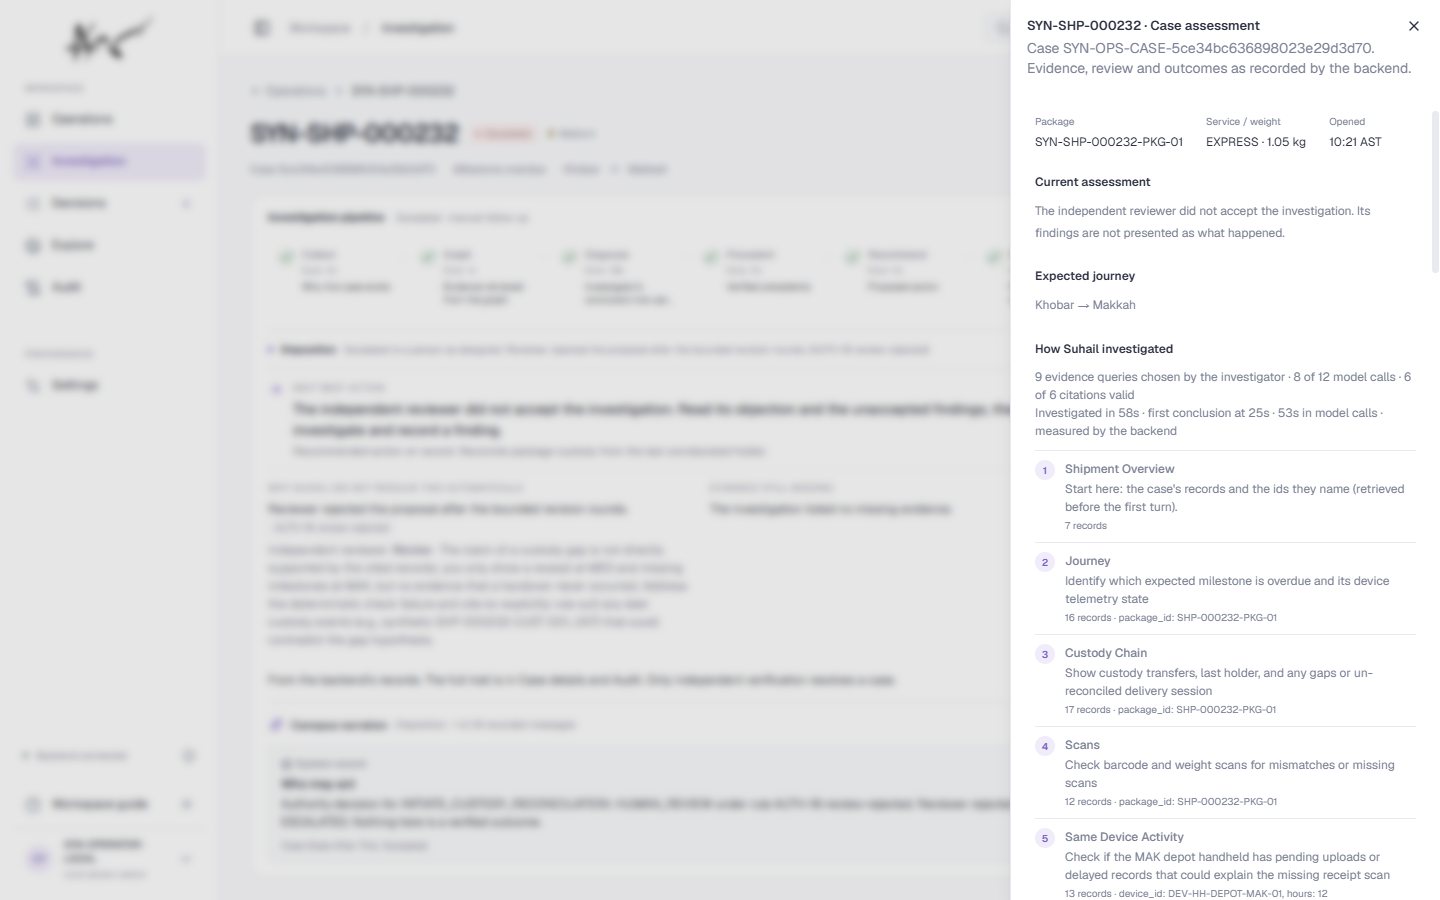
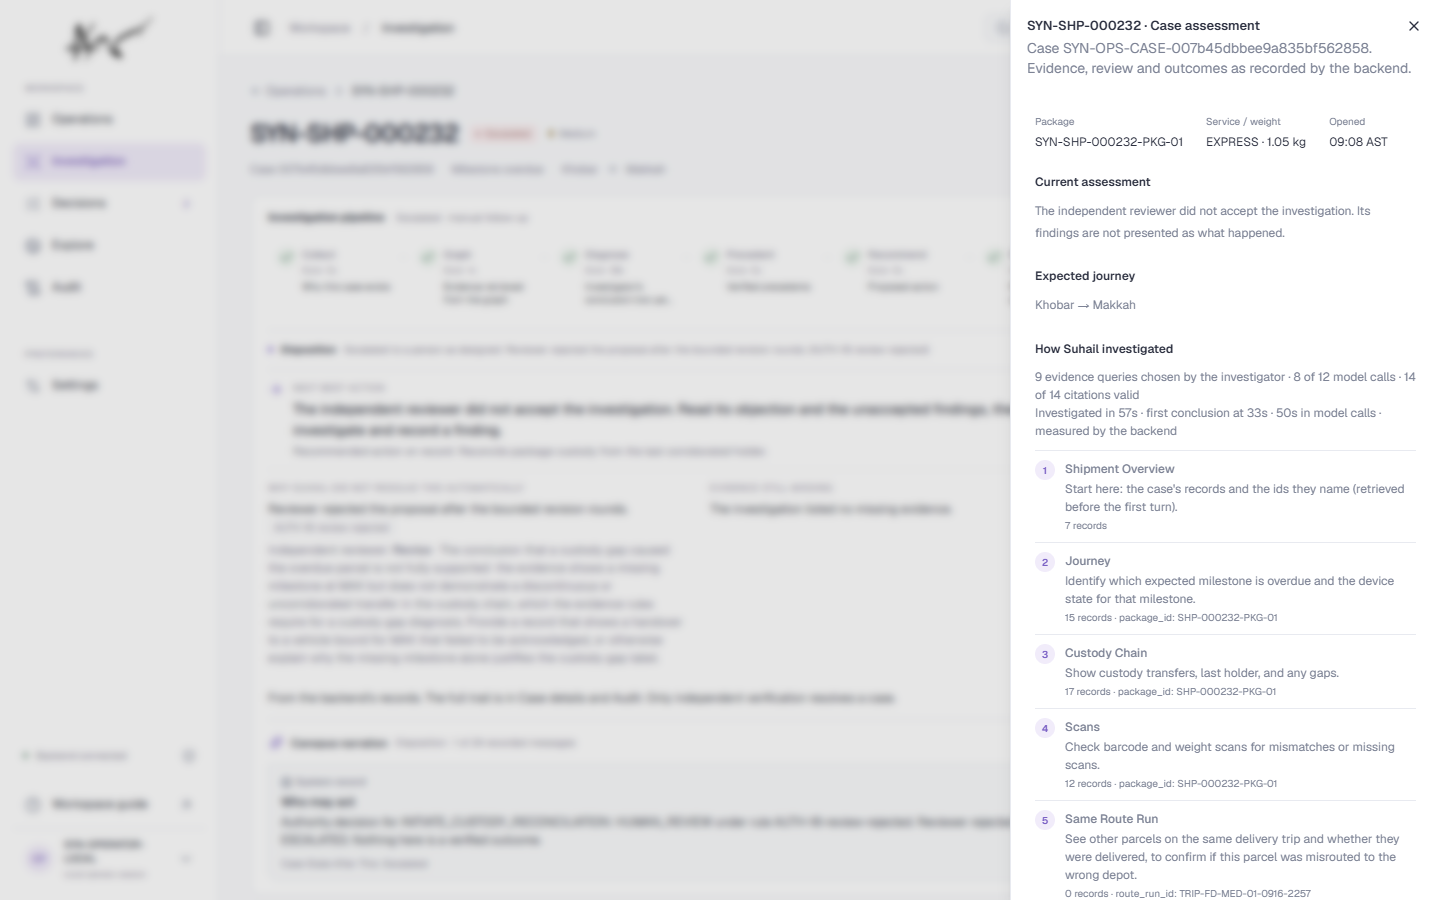
docs: one hands-on guide for the walkthrough; final check captures

diff --git a/docs/2026-10-11_suhail-handoff-guide.md b/docs/2026-10-11_suhail-handoff-guide.md
@@ -1,0 +1,144 @@
+# Suhail: hands-on guide
+
+11 October 2026. All data is synthetic. Actions are executed by a simulator, not by any SPL system.
+
+## Where
+
+| | URL | State |
+| --- | --- | --- |
+| **Your walkthrough** | **http://127.0.0.1:8021/app/** | Four cases waiting, nothing investigated, Auto OFF, clock PAUSED until you start it |
+| Your earlier session | http://127.0.0.1:8020/app/ | Untouched, Auto OFF, the same five cases |
+
+## Steps
+
+1. **Open Operations** at http://127.0.0.1:8021/app/. Four cases wait as "Queued". Beside the
+   search are **Clock paused · Start** and the **Auto** switch (off). Leave Auto off: with it on,
+   Suhail investigates waiting cases by itself, oldest first.
+2. **Select a case** by clicking its row.
+3. **Click Investigate now** (top right). One real GPT-OSS 120B investigation runs, 20 to 100
+   seconds. Start one at a time: a second click while one is running is not started.
+4. **Watch.** The eight pipeline steps move as the backend reports them. Under them, **Canopus
+   narration** shows what is happening, each message labelled by who wrote it:
+   - **Canopus summary**: Canopus's own summary of recorded events (model text).
+   - **Agent's own words**: the investigator's or reviewer's recorded message, quoted.
+   - **System record**: written by code from a deterministic record.
+   "N evidence checks by the investigator" lists each query; click one to light the records it
+   returned in the graph.
+5. **Read the result.** Click a pipeline step to read it. **Next best action**, at the bottom of
+   the pipeline card, is the backend's statement of what the case needs; **Why, and what is
+   missing** opens the reviewer's objection, the missing evidence and what was tried. Click a map
+   marker or a graph node to inspect a record. **Case details** has the findings, the reviewer
+   round by round and the policy rule.
+6. **Start the clock.** On Operations click **Clock paused · Start**; it reads "Clock running ×60
+   · Pause". The simulated world then moves one simulated hour per minute: requested actions get
+   their answers, the verifier decides, and new cases arrive. Backup if the button does not
+   respond: `start-clock.cmd` in `C:\Projects\demo\.stage4\artifacts\demo\walkthrough`.
+7. **Approve when offered.** If a case reads "Awaiting your approval", click **Review &
+   authorize**, read the proposed action, then **Authorize action**. The backend re-checks the
+   evidence first and refuses a stale approval.
+8. **Watch the outcome.** After an action the case reads "Verifying outcome" with the time an
+   answer is scheduled. The Outcome step then reads "Done" (verified and resolved), "Executed ·
+   no answer, not verified", "Executed · exception remains" or "Executed · not verified as
+   resolved". Only the first resolves the case.
+9. **Ask Canopus.** Click the round button at the bottom right and type a question about the open
+   case. It answers from that case's records, quotes the agents' messages as recorded, and
+   performs no action.
+10. **Replay.** On a finished case, **Replay** beside the narration steps through the stored
+    messages again, with no model call.
+11. **Pause the clock** when you step away (**Clock running ×60 · Pause**, or `pause-clock.cmd`).
+
+## The cases
+
+Waiting now (clock paused at simulated 15 September, 20:34):
+
+| Shipment | What it is | What happened in today's tests |
+| --- | --- | --- |
+| SYN-SHP-000375 | Barcode read differs at a sorter | Resolved and verified in 2 of 3 runs (rescan, then the barcode matched), once from a manual click with Auto off. In the third the reviewer asked for a revision and the rescan was still unanswered when the test ended. **Best candidate for a verified resolution** |
+| SYN-SHP-000165 | Barcode read differs (opened six simulated hours earlier) | Resolved and verified in 5 of 7 runs. Twice the model's answer was unusable or the reviewer objected |
+| SYN-SHP-000058 | Weight read differs | Reweigh executed, verifier found the weight still differs: stays with a person. A complete unsuccessful verification, usually within about three minutes of the clock running |
+| SYN-SHP-000104 | Custody unconfirmed, session end unreconciled | Goes to a person every time (escalated, or human review by rule). A legitimate escalation |
+
+Arriving after you start the clock (minutes after Start, at speed 60):
+
+| Shipment | Arrives | What happened in today's tests |
+| --- | --- | --- |
+| SYN-SHP-000015 | about 10 min | Not resolved in any run |
+| SYN-SHP-000304 | about 12 min | Resolved and verified once (custody reconciliation) |
+| SYN-SHP-000232 | about 35 min | Escalated every time: the reviewer does not accept the custody-gap conclusion |
+| SYN-SHP-000263 | about 43 min | Reweigh verified as successful, but the reviewer did not accept the re-investigation, so it went to a person (reviewer-doubt rule AUTH-27) |
+
+## How long answers take
+
+The clock must be running for anything to happen after an investigation.
+
+- A reweigh is answered in **1 to 3 minutes**.
+- A custody reconciliation in **3 to 5 minutes**.
+- A **rescan is answered only when the parcel is next read**: about 32 minutes after Start for
+  SYN-SHP-000165 and about 55 minutes after Start for SYN-SHP-000375. Until then the case shows
+  "Verifying outcome". `fast-forward-clock.cmd` (same folder as the other two) runs the clock ten
+  times faster to bring that moment sooner; go back to the normal Start afterwards, because at
+  that speed newly arriving cases age quickly.
+
+## Three questions to ask Canopus
+
+Each was answered correctly in testing, with the agents' messages quoted:
+
+1. "What did the reviewer say?"
+2. "Show me the investigator's original message."
+3. "What evidence is missing, and can you request it?" On a resolved case: "What proved that
+   this is resolved?"
+
+## What the Disposition step means
+
+It is the case's disposition (who acts next), not a vehicle route.
+
+| Label | Meaning |
+| --- | --- |
+| Done | An automatic, policy-allowed action was authorized and delivered |
+| Awaiting your approval | The backend marks the request approvable by an operator |
+| Routed to a person | A policy rule requires a person; nothing runs automatically |
+| Escalated to a person | The reviewer did not accept the finding. The workflow working, not a failure |
+| Request not delivered, or No result recorded | A genuine failure of the step |
+
+## Confirmed in testing
+
+| Check | What was seen |
+| --- | --- |
+| Investigate now with Auto off | Seven clicks, each ran exactly one real investigation |
+| Execution and verification after a manual start | SYN-SHP-000375: rescan delivered, verified, resolved. SYN-SHP-000058: reweigh delivered, verified as not successful |
+| Canopus narration and answers | Live narration on seventeen real runs, three labelled sources; about fifteen real answers with quoted agent messages |
+| Graph highlights | Only records the backend names for that case were lit |
+| Resolved means verified | Only verified, successful, exception-cleared cases read "Resolved" |
+| Escalated and unsuccessful cases | Shown as waiting on a person, with the rule and the reviewer's objection |
+| Interface and backend states | Matched on every case checked at rest |
+| No mixing between shipments | Two cases never showed each other's narration, answers or highlights |
+| Clock control | Start and Pause worked on this backend; same session, no case changed |
+
+## Not reliable, or not covered
+
+- **Outcomes vary between runs.** The same shipment can resolve in one run and go to a person in
+  the next, because the model's answers and the reviewer's verdicts differ. No single click is
+  guaranteed to resolve.
+- **A waiting case's next best action reads oddly.** A case that is queued, or sent back by new
+  evidence, shows "Waiting for the investigation of the current evidence to finish" although
+  nothing runs with Auto off: click **Investigate now**.
+- **Approval with Auto off was not exercised.** No manually started case produced an approvable
+  request. It was done once in the automatic test: an operator-approved rescan on SYN-SHP-000015
+  was delivered; the verifier found nothing. Opening the approval from a Canopus offer was tested
+  against a stand-in backend only.
+- **One investigation at a time.** Two cases investigating at the same moment is not supported
+  and was not tested.
+- **Model failures.** An invalid or missing model reply sends the case to a person with no
+  diagnosis.
+- **Device sync was never chosen by the investigator**, so that recovery type is unproven.
+- **The investigator is not more accurate than rules** (81 against 92 of 119 in the evaluation)
+  and almost never says "not enough evidence". Its finding is a proposal; nothing closes on it
+  alone.
+- **Canopus summaries are model text.** They are checked for invented record ids and false
+  "resolved" claims and are labelled as Canopus; the agents' own words, shown separately, are the
+  source to trust.
+
+## If something is not running
+
+Start the Neo4j Desktop instance "AgentX". The backend start commands are in
+`suhail-backend-test-guide.md` in the project files.
